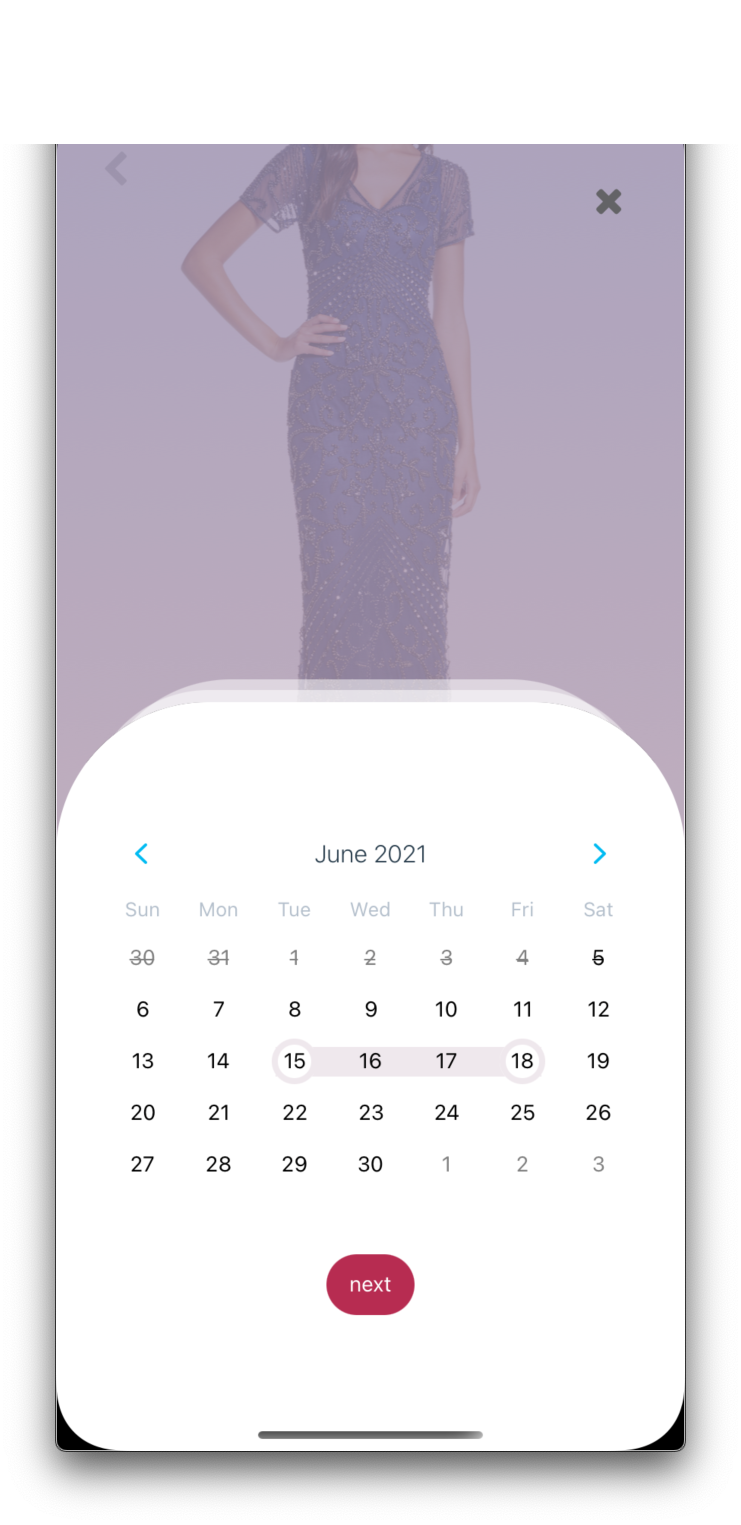
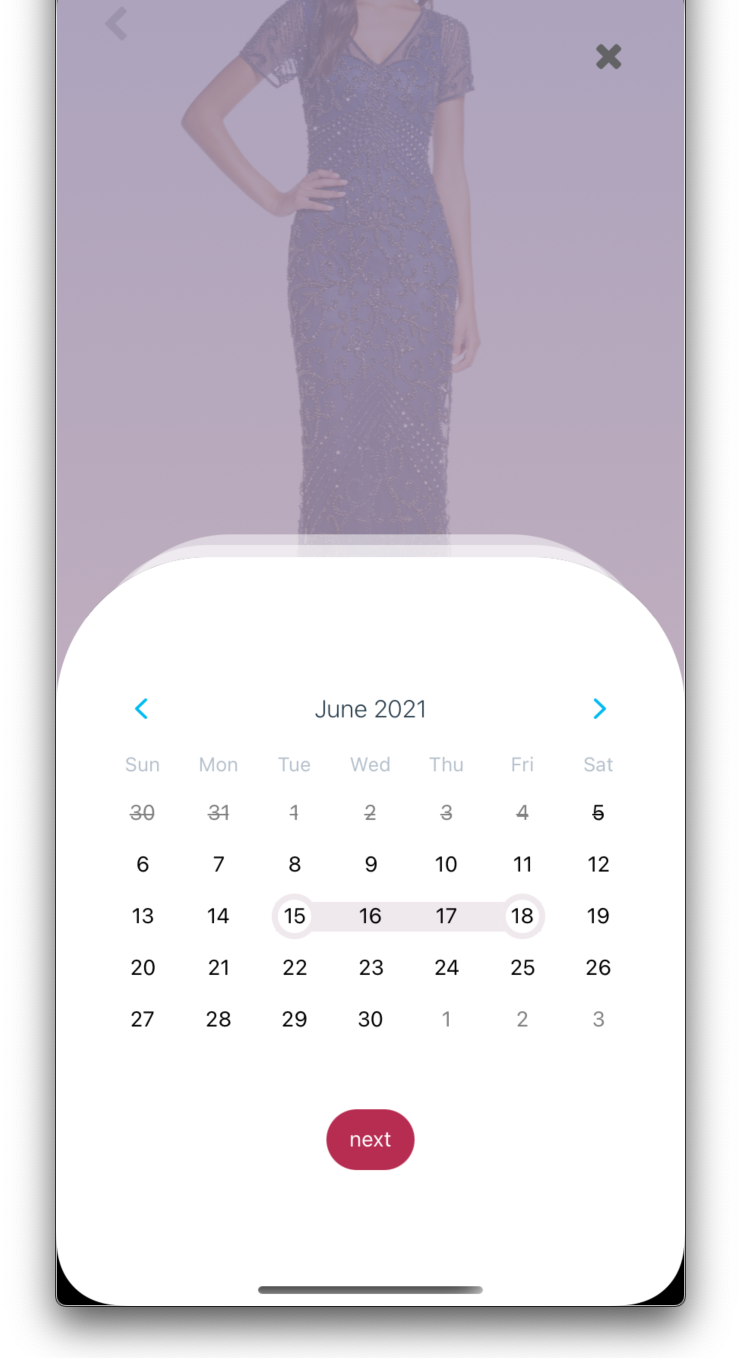
cleaned up tutorial formatting

diff --git a/App/components/screens/tutorials/InitialScreen.js b/App/components/screens/tutorials/InitialScreen.js
@@ -67,10 +67,32 @@ const Circle = ({color='white'}) =>{
     </View>
 }
 
-const ScreenTemplate = ({page, children}) => {
+const ScreenTemplate = ({page, text="", children}) => {
     return <View style={{backgroundColor:background, flex: 1}}>
-            <View style={{flex:1, marginHorizontal:20, marginTop:'40%', height: '70%'}}>
+            <View style={{flex:1, marginHorizontal:20, marginTop:'10%', height: '70%'}}>
+                <View style={{flex: 1,
+                // borderColor: 'yellow',
+                // borderWidth: 1,
+                justifyContent: 'flex-end'
+                
+                }}><Text style={{textAlign:'center', fontFamily: constants.FONT, fontSize: 24}}>{text}</Text></View>
+                <View style={{flex: 3}}>
+<View style={{flex: .5, 
+// borderColor: 'orange',
+// borderWidth: 1,
+}} />
+<View style={{flex: 5,
+// borderColor: 'green',
+// borderWidth: 3,
+justifyContent: 'flex-start'
+}}>
             {children}
+            </View>
+            <View style={{flex: .5, 
+// borderColor: 'red',
+// borderWidth: 1,
+}} />
+            </View>
             </View>
             <View style={{flexDirection: 'row', alignSelf: 'center'}}>
             {screens.map((item, index)=>{
@@ -91,41 +113,46 @@ const Screen1 = () => {
 }
 
 const Screen2 = () => {
-    return <ScreenTemplate page={1}>
-        <Text style={{textAlign:'center', fontFamily: constants.FONT, fontSize: 24}}>Flock is a co-owning service that lets you buy expensive clothes for cheap</Text>
+    return <ScreenTemplate page={1} text="Flock is a co-owning service that lets you buy expensive clothes for cheap">
         <Image source={require("App/Assets/Images/money_clothes.png")} style={{marginTop: -50,height: '100%',width:'100%', alignSelf: 'center'}}/>
         </ScreenTemplate>
 
 }
 
 const Screen3 = () => {
-    return <ScreenTemplate page={2}>
-        <Text style={{textAlign:'center', fontFamily: constants.FONT, fontSize: 24}}>Search the world wide web for your favorite clothes</Text>
+    return <ScreenTemplate page={2} text="Search the internet for your favorite clothes">
         <Image source={require("App/Assets/Images/gucci.png")} style={{resizeMode: 'contain', height: '80%',width:'80%', alignSelf: 'center'}}/>
         </ScreenTemplate>
 
 }
 
 const Screen4 = () => {
-    return <ScreenTemplate page={3}>
-        <Text style={{textAlign:'center', fontFamily: constants.FONT, fontSize: 24}}>Find others to split the cost!</Text>
+    return <ScreenTemplate page={3} text="Find others to split the cost!">
         <View style={{flex:1, }}>
-        <Image source={require("App/Assets/Images/chat_demo.png")} style={{marginTop: 70, resizeMode: 'contain',width:'80%', alignSelf: 'center'}}/>
+
+        <Image source={require("App/Assets/Images/chat_demo.png")} style={{marginTop: 10, resizeMode: 'contain',width:'80%', alignSelf: 'center'}}/>
+
         </View>
         </ScreenTemplate>
 
 }
 
 const ScreenChoose = () => {
+    const [height, setHeight] = useState(0);
     const [percent, setPercent] = useState(25);
-    return <ScreenTemplate page={4}>
-        <Text style={{textAlign:'center', fontFamily: constants.FONT, fontSize: 24}}>Choose how much you want to pay</Text>
-<View style={{marginHorizontal:50, paddingVertical: '10%', height: '80%', flexDirection:'row', alignItems:'center', justifyContent:'center'}}>
+    return <ScreenTemplate page={4} text="Choose how much you want to pay">
+<View 
+onLayout={(event)=>{
+    // console.log('height', event.nativeEvent.layout.height)
+    setHeight(event.nativeEvent.layout.height * .7);
+}}
+style={{marginHorizontal:50, height: '100%', flexDirection:'row', alignItems:'center', justifyContent:'center'}}>
     <Text style={{flex:2, marginBottom:100,fontSize:60, overflow:'hidden'}}>{percent}%</Text>
         <View style={{flex:1}}>
             <View style={{flex: 2}} />
             <MultiSlider 
             values={[percent]}
+            sliderLength={height}
             min={1} max={100} vertical={true} 
             markerStyle={{width: 40, height: 40, shadowOpacity:0}}
             selectedStyle={{backgroundColor: constants.BLUERGREY}}
@@ -146,29 +173,28 @@ const ScreenChoose = () => {
 }
 
 const ScreenCalendar = () => {
-    return <ScreenTemplate page={5}>
-        <Text style={{textAlign:'center', fontFamily: constants.FONT, fontSize: 24}}>Use when you want</Text>
-        <View style={{flex:1, marginTop:30}}>
-        <Image source={require("App/Assets/Images/reserve.png")} style={{resizeMode: 'contain', height: '80%',width:'80%', alignSelf: 'center'}}/>
+    return <ScreenTemplate page={5} text="Use when you want">
+        <View style={{flex:1,}}>
+        <Image source={require("App/Assets/Images/reserve.png")} style={{resizeMode: 'contain', height: "80%", alignSelf: 'center'}}/>
         </View>
         </ScreenTemplate>
 
 }
 
 const Screen5 = () => {
-    return <ScreenTemplate page={6}>
-        <Text style={{textAlign:'center', fontFamily: constants.FONT, fontSize: 24}}>Ship to your co-owners when you are done.</Text>
-        <View style={{flex: 1, justifyContent: 'flex-start'}}>
-        <Image source={require("App/Assets/Images/share_houses.png")} style={{resizeMode: 'contain', marginTop: 10, height: '80%',width:'80%', alignSelf: 'center'}}/>
-        </View>
+    return <ScreenTemplate page={6} text="Ship to your co-owners when you are done">
+        
+        <Image 
+        source={require("App/Assets/Images/share_houses.png")} style={{alignSelf: 'center', height: '80%', width: '80%', resizeMode: 'contain'}}
+        />
+
         </ScreenTemplate>
 }
 
 const Screen6 = ({route}) => {
     const dispatch = useDispatch();
 
-    return <ScreenTemplate page={7}>
-        <Text style={{textAlign:'center', fontFamily: constants.FONT, fontSize: 24}}>Enjoy!</Text>
+    return <ScreenTemplate page={7} text="Enjoy!">
         <Image source={require("App/Assets/Images/duck_butler.png")} style={{height: '80%',width:'80%', alignSelf: 'center'}}/>
         <TouchableOpacity style={{alignSelf: 'center', padding: 20, width: 150, borderRadius: 30, alignItems: 'center', backgroundColor: constants.LAVENDER}} onPress={()=>{
             // route.params.parentNavigator.navigate("Login")
